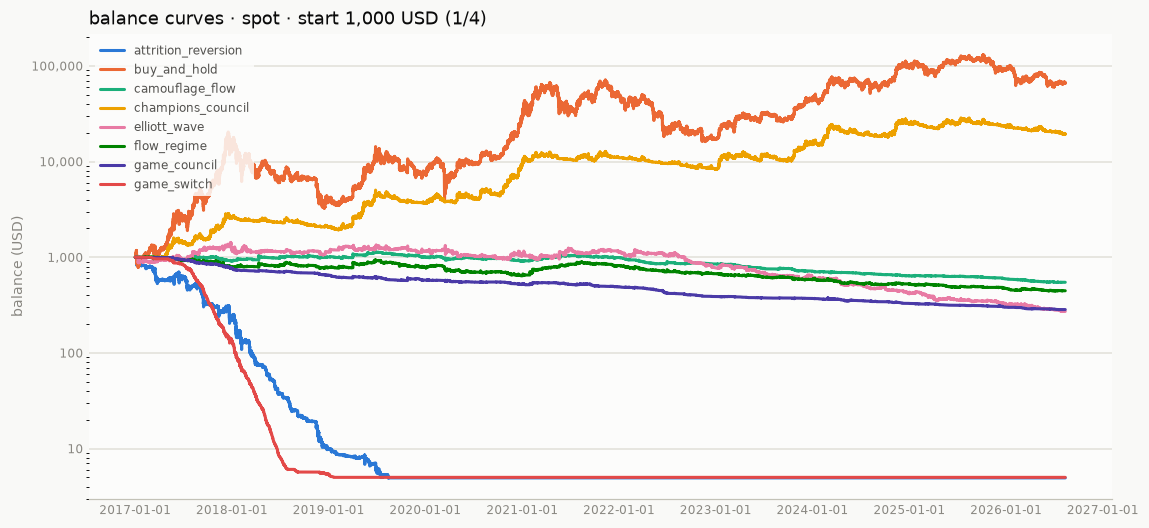
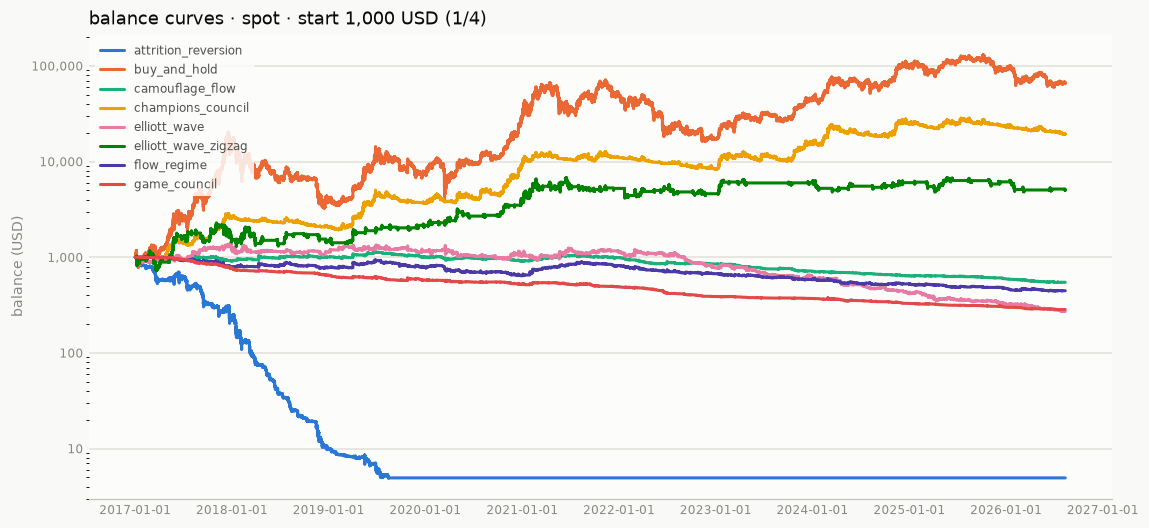
Reconcile registry after merge: regenerate comparison table and STRATEGIES.md for elliott_wave_zigzag (concurrent R-156 session)
Bootstrap intervals, ordering stats, README/comparison.md and the
STRATEGIES.md catalogue now cover all 27 registered strategies, including
elliott_wave_zigzag merged in from the concurrent session's own R-156.
Full pytest (536 passed) and the evidence-interval CI check both green.

diff --git a/reports/comparison.md b/reports/comparison.md
@@ -17,31 +17,32 @@ Every comparison against `buy_and_hold` carries a 95% paired block-bootstrap int
 | 7 | [buy_and_hold](../src/tradebot/strategies/buy_and_hold.py) | 🟢 **$66.0K** | 💀 $18.05 | 1 | 📈 $65.0K | 84% ⚠ | benchmark | benchmark |
 | 8 | [champions_council](../src/tradebot/strategies/champions_council.py) | 🟢 $19.3K | 🟢 **$36.8K** | 261 | 📈 $35.8K | 37% | ≈ -1.20 [-4.06, +1.81] | ▲ -49.5pp [-54.7, -19.0] |
 | 9 | [hedge_experts](../src/tradebot/strategies/hedge_experts.py) | 🟢 **$13.3K** | 🔴 $258 | 2,044 | 📈 $12.3K | 59% ⚠ | ≈ -1.57 [-4.01, +0.96] | ▲ -24.1pp [-39.1, -3.0] |
-| 10 | [replicator_book](../src/tradebot/strategies/replicator_book.py) | 🟢 **$2,330** | 🔴 $10.58 | 713 | 📈 $1,330 | 38% | ≈ -3.31 [-6.86, +0.28] | ▲ -47.1pp [-57.9, -20.7] |
-| 11 | [universal_kelly](../src/tradebot/strategies/universal_kelly.py) | 🟢 **$1,276** | 🟢 $1,227 | 9 | 📈 $276 | 7% | ≈ -3.91 [-8.39, +0.44] | ▲ -76.6pp [-89.1, -52.9] |
-| 12 | [harsanyi_crowd](../src/tradebot/strategies/harsanyi_crowd.py) | 🔴 **$888** | 🔴 $429 | 91 | 📉 -$112 | 11% | ≈ -4.28 [-8.88, +0.23] | ▲ -71.9pp [-85.6, -46.0] |
-| 13 | [overshoot_fade](../src/tradebot/strategies/overshoot_fade.py) | 🔴 **$662** | 🔴 $33.52 | 189 | 📉 -$338 | 37% | ▼ -4.57 [-9.13, -0.07] | ▲ -46.6pp [-68.5, -19.6] |
-| 14 | [camouflage_flow](../src/tradebot/strategies/camouflage_flow.py) | 🔴 **$548** | 🔴 $0.99 | 802 | 📉 -$452 | 53% ⚠ | ▼ -4.76 [-9.23, -0.29] | ▲ -31.4pp [-57.7, -2.5] |
-| 15 | [stealth_trend](../src/tradebot/strategies/stealth_trend.py) | 🔴 **$465** | 🔴 $0.38 | 1,605 | 📉 -$535 | 55% ⚠ | ▼ -4.92 [-9.26, -0.76] | ≈ -29.0pp [-43.9, +12.1] |
-| 16 | [flow_regime](../src/tradebot/strategies/flow_regime.py) | 🔴 **$447** | 🔴 $0.80 | 1,184 | 📉 -$553 | 56% ⚠ | ▼ -4.96 [-9.43, -0.54] | ≈ -27.3pp [-47.2, +6.3] |
-| 17 | [game_council](../src/tradebot/strategies/game_council.py) | 🔴 **$284** | 🔴 $2.00 | 2,541 | 📉 -$716 | 72% ⚠ | ▼ -5.42 [-9.97, -0.95] | ≈ -11.5pp [-25.9, +12.4] |
-| 18 | [elliott_wave](../src/tradebot/strategies/elliott_wave.py) | 🔴 **$272** | 💀 $81.67 | 1,261 | 📉 -$728 | 81% ⚠ | ▼ -5.46 [-9.80, -1.00] | ≈ -2.9pp [-33.6, +22.3] |
-| 19 | [minority_oracle](../src/tradebot/strategies/minority_oracle.py) | 🔴 **$53.36** | 🔴 $3.83 | 9,039 | 📉 -$947 | 95% ⚠ | ▼ -7.09 [-11.60, -2.52] | ≈ +11.5pp [-3.8, +35.9] |
-| 20 | [game_switch](../src/tradebot/strategies/game_switch.py) | 🔴 **$5.00** | 🔴 $1.00 | 6,672 | 📉 -$995 | 99% ⚠ | ▼ -9.45 [-15.38, -4.06] | ▼ +16.3pp [+1.0, +39.3] |
-| 21 | [regret_grid](../src/tradebot/strategies/regret_grid.py) | 🔴 **$5.00** | 🔴 $1.00 | 3,461 | 📉 -$995 | 100% ⚠ | ▼ -9.46 [-16.20, -3.49] | ▼ +16.3pp [+0.9, +39.9] |
-| 22 | [tft_trend](../src/tradebot/strategies/tft_trend.py) | 🔴 **$4.99** | 🔴 $1.00 | 2,538 | 📉 -$995 | 100% ⚠ | ▼ -9.46 [-14.88, -4.58] | ▼ +16.3pp [+3.0, +39.9] |
-| 23 | [macd_cross](../src/tradebot/strategies/macd_cross.py) | 🔴 **$4.99** | 🔴 $1.00 | 4,301 | 📉 -$995 | 100% ⚠ | ▼ -9.47 [-16.93, -3.21] | ≈ +16.4pp [-1.4, +40.0] |
-| 24 | [macd_rsi](../src/tradebot/strategies/macd_rsi.py) | 🔴 **$4.96** | 🔴 $0.94 | 2,454 | 📉 -$995 | 100% ⚠ | ▼ -9.46 [-15.00, -4.40] | ▼ +16.3pp [+2.6, +39.6] |
-| 25 | [attrition_reversion](../src/tradebot/strategies/attrition_reversion.py) | 🔴 **$4.94** | 🔴 $0.99 | 2,930 | 📉 -$995 | 100% ⚠ | ▼ -9.47 [-14.55, -4.69] | ▼ +16.3pp [+3.1, +39.1] |
-| 26 | [rsi_reversion](../src/tradebot/strategies/rsi_reversion.py) | 🔴 **$4.85** | 🔴 $0.77 | 4,464 | 📉 -$995 | 100% ⚠ | ▼ -9.49 [-13.24, -5.78] | ▼ +16.7pp [+3.5, +39.8] |
+| 10 | [elliott_wave_zigzag](../src/tradebot/strategies/elliott_wave_zigzag.py) | 🟢 **$5,027** | 💀 $12.75 | 162 | 📈 $4,027 | 44% | ≈ -2.54 [-6.51, +1.49] | ≈ -43.8pp [-50.7, +2.9] |
+| 11 | [replicator_book](../src/tradebot/strategies/replicator_book.py) | 🟢 **$2,330** | 🔴 $10.58 | 713 | 📈 $1,330 | 38% | ≈ -3.31 [-6.86, +0.28] | ▲ -47.1pp [-57.9, -20.7] |
+| 12 | [universal_kelly](../src/tradebot/strategies/universal_kelly.py) | 🟢 **$1,276** | 🟢 $1,227 | 9 | 📈 $276 | 7% | ≈ -3.91 [-8.39, +0.44] | ▲ -76.6pp [-89.1, -52.9] |
+| 13 | [harsanyi_crowd](../src/tradebot/strategies/harsanyi_crowd.py) | 🔴 **$888** | 🔴 $429 | 91 | 📉 -$112 | 11% | ≈ -4.28 [-8.88, +0.23] | ▲ -71.9pp [-85.6, -46.0] |
+| 14 | [overshoot_fade](../src/tradebot/strategies/overshoot_fade.py) | 🔴 **$662** | 🔴 $33.52 | 189 | 📉 -$338 | 37% | ▼ -4.57 [-9.13, -0.07] | ▲ -46.6pp [-68.5, -19.6] |
+| 15 | [camouflage_flow](../src/tradebot/strategies/camouflage_flow.py) | 🔴 **$548** | 🔴 $0.99 | 802 | 📉 -$452 | 53% ⚠ | ▼ -4.76 [-9.23, -0.29] | ▲ -31.4pp [-57.7, -2.5] |
+| 16 | [stealth_trend](../src/tradebot/strategies/stealth_trend.py) | 🔴 **$465** | 🔴 $0.38 | 1,605 | 📉 -$535 | 55% ⚠ | ▼ -4.92 [-9.26, -0.76] | ≈ -29.0pp [-43.9, +12.1] |
+| 17 | [flow_regime](../src/tradebot/strategies/flow_regime.py) | 🔴 **$447** | 🔴 $0.80 | 1,184 | 📉 -$553 | 56% ⚠ | ▼ -4.96 [-9.43, -0.54] | ≈ -27.3pp [-47.2, +6.3] |
+| 18 | [game_council](../src/tradebot/strategies/game_council.py) | 🔴 **$284** | 🔴 $2.00 | 2,541 | 📉 -$716 | 72% ⚠ | ▼ -5.42 [-9.97, -0.95] | ≈ -11.5pp [-25.9, +12.4] |
+| 19 | [elliott_wave](../src/tradebot/strategies/elliott_wave.py) | 🔴 **$272** | 💀 $81.67 | 1,261 | 📉 -$728 | 81% ⚠ | ▼ -5.46 [-9.80, -1.00] | ≈ -2.9pp [-33.6, +22.3] |
+| 20 | [minority_oracle](../src/tradebot/strategies/minority_oracle.py) | 🔴 **$53.36** | 🔴 $3.83 | 9,039 | 📉 -$947 | 95% ⚠ | ▼ -7.09 [-11.60, -2.52] | ≈ +11.5pp [-3.8, +35.9] |
+| 21 | [game_switch](../src/tradebot/strategies/game_switch.py) | 🔴 **$5.00** | 🔴 $1.00 | 6,672 | 📉 -$995 | 99% ⚠ | ▼ -9.45 [-15.38, -4.06] | ▼ +16.3pp [+1.0, +39.3] |
+| 22 | [regret_grid](../src/tradebot/strategies/regret_grid.py) | 🔴 **$5.00** | 🔴 $1.00 | 3,461 | 📉 -$995 | 100% ⚠ | ▼ -9.46 [-16.20, -3.49] | ▼ +16.3pp [+0.9, +39.9] |
+| 23 | [tft_trend](../src/tradebot/strategies/tft_trend.py) | 🔴 **$4.99** | 🔴 $1.00 | 2,538 | 📉 -$995 | 100% ⚠ | ▼ -9.46 [-14.88, -4.58] | ▼ +16.3pp [+3.0, +39.9] |
+| 24 | [macd_cross](../src/tradebot/strategies/macd_cross.py) | 🔴 **$4.99** | 🔴 $1.00 | 4,301 | 📉 -$995 | 100% ⚠ | ▼ -9.47 [-16.93, -3.21] | ≈ +16.4pp [-1.4, +40.0] |
+| 25 | [macd_rsi](../src/tradebot/strategies/macd_rsi.py) | 🔴 **$4.96** | 🔴 $0.94 | 2,454 | 📉 -$995 | 100% ⚠ | ▼ -9.46 [-15.00, -4.40] | ▼ +16.3pp [+2.6, +39.6] |
+| 26 | [attrition_reversion](../src/tradebot/strategies/attrition_reversion.py) | 🔴 **$4.94** | 🔴 $0.99 | 2,930 | 📉 -$995 | 100% ⚠ | ▼ -9.47 [-14.55, -4.69] | ▼ +16.3pp [+3.1, +39.1] |
+| 27 | [rsi_reversion](../src/tradebot/strategies/rsi_reversion.py) | 🔴 **$4.85** | 🔴 $0.77 | 4,464 | 📉 -$995 | 100% ⚠ | ▼ -9.49 [-13.24, -5.78] | ▼ +16.7pp [+3.5, +39.8] |
 
 _Balances from a $1,000 start · bold = the strategy's better market · 🟢 profit · 🔴 loss · 💀 liquidated · ⚠ drawdown over 50%. Trades, profit and max drawdown describe that market._
 
 _The last two columns are the only ones that answer **"is this difference real?"** Both are paired differences against `buy_and_hold` on spot over the full period (3,510 daily observations), each with a 95% stationary block-bootstrap interval — 30-day mean block, 2,000 resamples, the identical resample applied to both strategies so the market's own variance cancels instead of swamping the gap. ▲ / ▼ = the interval excludes zero and the strategy is better / worse; **≈ = it contains zero, so the difference from simply holding is not established**._
 
-_**Growth**, not Sharpe, because final balance is what this table ranks by — and the two disagree. **spot**, because leveraged buy-and-hold is a stress case rather than a benchmark: it is liquidated in early 2017, and an account that cannot draw down further is not something to draw down less than (R-22). On this run **0 of 25** strategies are distinguishably better than holding on growth; the drawdown column is where the project's findings actually live._
+_**Growth**, not Sharpe, because final balance is what this table ranks by — and the two disagree. **spot**, because leveraged buy-and-hold is a stress case rather than a benchmark: it is liquidated in early 2017, and an account that cannot draw down further is not something to draw down less than (R-22). On this run **0 of 26** strategies are distinguishably better than holding on growth; the drawdown column is where the project's findings actually live._
 
-_Adjacent steps down this ranking that survive the same test: **14 of 25** on spot · **5 of 25** on futures_5x. The order is a display convention, not a result — read the table as buckets._
+_Adjacent steps down this ranking that survive the same test: **16 of 26** on spot · **5 of 26** on futures_5x. The order is a display convention, not a result — read the table as buckets._
 
 _Regenerate with `python scripts/inference.py`; the numbers live in `reports/inference/bootstrap.csv`._
 
@@ -64,6 +65,7 @@ _Regenerate with `python scripts/inference.py`; the numbers live in `reports/inf
 | [elliott_wave](../src/tradebot/strategies/elliott_wave.py) | $81.67 | -$918 | -91.83% | 164 | 51.8 | $512 | -$2,966 | 97.5 | 0.13 | 1.0 | $565 | yes | ☠ +0.49 [-0.12, +0.93] | ☠ -1.7pp [-35.0, +100.0] | ☠ +1.67 [-7.61, +10.85] | 0.66 |
 | [overshoot_fade](../src/tradebot/strategies/overshoot_fade.py) | $33.52 | -$966 | -96.65% | 341 | 57.2 | $71.14 | -$115 | 97.0 | -1.16 | 0.3 | $309 |  | ☠ -0.92 [-1.75, -0.17] | ☠ -2.1pp [-14.5, +99.3] | ☠ +0.78 [-4.96, +11.00] | 0.53 |
 | [buy_and_hold](../src/tradebot/strategies/buy_and_hold.py) | $18.05 | -$982 | -98.20% | 1 | 0.0 | -$982 | -$982 | 99.0 | -0.19 | 0.3 | $4.50 | yes | benchmark | benchmark | benchmark | 0.00 |
+| [elliott_wave_zigzag](../src/tradebot/strategies/elliott_wave_zigzag.py) | $12.75 | -$987 | -98.73% | 5 | 40.0 | $405 | -$694 | 98.9 | -0.04 | 0.9 | $17.31 | yes | ☠ +0.07 [-0.56, +0.68] | ☠ -0.2pp [-37.2, +100.0] | ☠ -0.19 [-11.50, +10.42] | 0.45 |
 | [replicator_book](../src/tradebot/strategies/replicator_book.py) | $10.58 | -$989 | -98.94% | 1427 | 24.4 | $1,847 | -$681 | 99.8 | 0.33 | 99.6 | $2,215 |  | ☠ +0.54 [-0.24, +1.13] | ☠ +0.7pp [-4.9, +100.0] | ☠ -0.38 [-9.36, +11.50] | 0.43 |
 | [minority_oracle](../src/tradebot/strategies/minority_oracle.py) | $3.83 | -$996 | -99.62% | 7065 | 25.4 | $11.19 | -$10.12 | 99.6 | -8.29 | 0.9 | $1,180 |  | ☠ -4.70 [-6.42, -3.15] | ☠ +0.6pp [-4.9, +100.0] | ☠ -1.39 [-8.39, +9.13] | 0.33 |
 | [game_council](../src/tradebot/strategies/game_council.py) | $2.00 | -$998 | -99.80% | 2494 | 33.8 | $17.63 | -$55.75 | 99.8 | -1.66 | 2.5 | $297 |  | ☠ -1.84 [-2.93, -1.10] | ☠ +0.8pp [-1.4, +100.0] | ☠ -2.04 [-8.58, +8.12] | 0.27 |
@@ -91,6 +93,7 @@ _Regenerate with `python scripts/inference.py`; the numbers live in `reports/inf
 | [kelly_regime_ev](../src/tradebot/strategies/kelly_regime_ev.py) | $40.9K | $39.9K | +3986.30% | 81 | 25.9 | $15.1K | -$3,482 | 44.4 | 1.31 | 57.4 | $2,403 |  | ≈ +0.37 [-0.07, +0.81] | ▲ -40.0pp [-55.5, -16.3] | ≈ -0.45 [-3.28, +2.58] | 0.39 |
 | [champions_council](../src/tradebot/strategies/champions_council.py) | $19.3K | $18.3K | +1832.14% | 131 | 14.6 | $8,520 | -$1,150 | 34.6 | 1.23 | 87.9 | $4,050 |  | ≈ +0.25 [-0.18, +0.68] | ▲ -49.5pp [-54.7, -19.0] | ≈ -1.20 [-4.06, +1.81] | 0.23 |
 | [hedge_experts](../src/tradebot/strategies/hedge_experts.py) | $13.3K | $12.3K | +1227.66% | 2044 | 7.5 | $11.0K | -$1,469 | 59.3 | 0.87 | 88.0 | $16.7K |  | ≈ -0.07 [-0.42, +0.29] | ▲ -24.1pp [-39.1, -3.0] | ≈ -1.57 [-4.01, +0.96] | 0.11 |
+| [elliott_wave_zigzag](../src/tradebot/strategies/elliott_wave_zigzag.py) | $5,027 | $4,027 | +402.68% | 162 | 54.7 | $1,469 | -$1,026 | 43.6 | 0.63 | 25.7 | $1,089 |  | ≈ -0.31 [-0.99, +0.36] | ≈ -43.8pp [-50.7, +2.9] | ≈ -2.54 [-6.51, +1.49] | 0.11 |
 | [replicator_book](../src/tradebot/strategies/replicator_book.py) | $2,330 | $1,330 | +132.98% | 713 | 26.2 | $451 | -$90.85 | 38.4 | 0.52 | 53.0 | $1,630 |  | ▼ -0.44 [-0.86, -0.06] | ▲ -47.1pp [-57.9, -20.7] | ≈ -3.31 [-6.86, +0.28] | 0.03 |
 | [universal_kelly](../src/tradebot/strategies/universal_kelly.py) | $1,276 | $276 | +27.60% | 9 | 88.9 | $131 | -$6.99 | 7.4 | 0.62 | 22.7 | $1.33 |  | ≈ -0.28 [-0.88, +0.32] | ▲ -76.6pp [-89.1, -52.9] | ≈ -3.91 [-8.39, +0.44] | 0.04 |
 | [harsanyi_crowd](../src/tradebot/strategies/harsanyi_crowd.py) | $888 | -$112 | -11.19% | 91 | 28.6 | $7.93 | -$13.89 | 11.4 | -0.82 | 0.1 | $90.02 |  | ▼ -2.03 [-2.96, -1.02] | ▲ -71.9pp [-85.6, -46.0] | ≈ -4.28 [-8.88, +0.23] | 0.03 |

diff --git a/README.md b/README.md
@@ -35,14 +35,14 @@ anything not listed here has been folded into one of these:
 | document | its one job |
 |---|---|
 | **[docs/ROUTINE.md](docs/ROUTINE.md)** | **The process.** The single procedure for researching and adding a strategy — from idea selection through holdout evaluation to the ledger record, including the mechanics of registering one. |
-| **[docs/LEDGER.md](docs/LEDGER.md)** | **The memory.** Everything already tried — 26 registered strategies, and a research log of 156 rounds, newest first — the four binding constraints, the ruled-out list, and the ranked backlog. Read before a session, appended after it. |
+| **[docs/LEDGER.md](docs/LEDGER.md)** | **The memory.** Everything already tried — 27 registered strategies, and a research log of 157 rounds, newest first — the four binding constraints, the ruled-out list, and the ranked backlog. Read before a session, appended after it. |
 | **[docs/VALIDATION.md](docs/VALIDATION.md)** | **The evidence.** The single comparison protocol and benchmark, and every robustness result: walk-forward, bootstrap intervals, deflated Sharpe, Monte Carlo stress windows, fees, funding, and the ETH replication test. |
 | **[docs/STRATEGIES.md](docs/STRATEGIES.md)** | **The strategies.** What each registered strategy is, how it works, and the principles it rests on, with citations. |
 | **[docs/RESEARCH.md](docs/RESEARCH.md)** | **The literature.** The survey behind the strategies, and the methodology findings that changed how this repo tests. |
 | **[docs/LIVE.md](docs/LIVE.md)** | **Deployment.** Running a paper-tested strategy on Bitstamp / Binance / a custom venue, and the honest list of what live will not match. |
 | [reports/comparison.md](reports/comparison.md) | Full metrics (win rate, drawdown, Sharpe, fees, ...) behind the table below. Regenerated by `tradebot run`. |
 
-The one-line summary of all twenty-six results: **every strategy that
+The one-line summary of all twenty-seven results: **every strategy that
 makes money decides *how much* to hold; every strategy that tries to
 predict *what happens next* loses.** On 5-minute bars, after fees, sizing
 wins and forecasting loses.
@@ -193,31 +193,32 @@ _Period: 2017-01-01 to 2026-08-12 (1,010,889 x 5m bars) · data: real, spot (per
 | 7 | [buy_and_hold](src/tradebot/strategies/buy_and_hold.py) | 🟢 **$66.0K** | 💀 $18.05 | 1 | 📈 $65.0K | 84% ⚠ | benchmark | benchmark |
 | 8 | [champions_council](src/tradebot/strategies/champions_council.py) | 🟢 $19.3K | 🟢 **$36.8K** | 261 | 📈 $35.8K | 37% | ≈ -1.20 [-4.06, +1.81] | ▲ -49.5pp [-54.7, -19.0] |
 | 9 | [hedge_experts](src/tradebot/strategies/hedge_experts.py) | 🟢 **$13.3K** | 🔴 $258 | 2,044 | 📈 $12.3K | 59% ⚠ | ≈ -1.57 [-4.01, +0.96] | ▲ -24.1pp [-39.1, -3.0] |
-| 10 | [replicator_book](src/tradebot/strategies/replicator_book.py) | 🟢 **$2,330** | 🔴 $10.58 | 713 | 📈 $1,330 | 38% | ≈ -3.31 [-6.86, +0.28] | ▲ -47.1pp [-57.9, -20.7] |
-| 11 | [universal_kelly](src/tradebot/strategies/universal_kelly.py) | 🟢 **$1,276** | 🟢 $1,227 | 9 | 📈 $276 | 7% | ≈ -3.91 [-8.39, +0.44] | ▲ -76.6pp [-89.1, -52.9] |
-| 12 | [harsanyi_crowd](src/tradebot/strategies/harsanyi_crowd.py) | 🔴 **$888** | 🔴 $429 | 91 | 📉 -$112 | 11% | ≈ -4.28 [-8.88, +0.23] | ▲ -71.9pp [-85.6, -46.0] |
-| 13 | [overshoot_fade](src/tradebot/strategies/overshoot_fade.py) | 🔴 **$662** | 🔴 $33.52 | 189 | 📉 -$338 | 37% | ▼ -4.57 [-9.13, -0.07] | ▲ -46.6pp [-68.5, -19.6] |
-| 14 | [camouflage_flow](src/tradebot/strategies/camouflage_flow.py) | 🔴 **$548** | 🔴 $0.99 | 802 | 📉 -$452 | 53% ⚠ | ▼ -4.76 [-9.23, -0.29] | ▲ -31.4pp [-57.7, -2.5] |
-| 15 | [stealth_trend](src/tradebot/strategies/stealth_trend.py) | 🔴 **$465** | 🔴 $0.38 | 1,605 | 📉 -$535 | 55% ⚠ | ▼ -4.92 [-9.26, -0.76] | ≈ -29.0pp [-43.9, +12.1] |
-| 16 | [flow_regime](src/tradebot/strategies/flow_regime.py) | 🔴 **$447** | 🔴 $0.80 | 1,184 | 📉 -$553 | 56% ⚠ | ▼ -4.96 [-9.43, -0.54] | ≈ -27.3pp [-47.2, +6.3] |
-| 17 | [game_council](src/tradebot/strategies/game_council.py) | 🔴 **$284** | 🔴 $2.00 | 2,541 | 📉 -$716 | 72% ⚠ | ▼ -5.42 [-9.97, -0.95] | ≈ -11.5pp [-25.9, +12.4] |
-| 18 | [elliott_wave](src/tradebot/strategies/elliott_wave.py) | 🔴 **$272** | 💀 $81.67 | 1,261 | 📉 -$728 | 81% ⚠ | ▼ -5.46 [-9.80, -1.00] | ≈ -2.9pp [-33.6, +22.3] |
-| 19 | [minority_oracle](src/tradebot/strategies/minority_oracle.py) | 🔴 **$53.36** | 🔴 $3.83 | 9,039 | 📉 -$947 | 95% ⚠ | ▼ -7.09 [-11.60, -2.52] | ≈ +11.5pp [-3.8, +35.9] |
-| 20 | [game_switch](src/tradebot/strategies/game_switch.py) | 🔴 **$5.00** | 🔴 $1.00 | 6,672 | 📉 -$995 | 99% ⚠ | ▼ -9.45 [-15.38, -4.06] | ▼ +16.3pp [+1.0, +39.3] |
-| 21 | [regret_grid](src/tradebot/strategies/regret_grid.py) | 🔴 **$5.00** | 🔴 $1.00 | 3,461 | 📉 -$995 | 100% ⚠ | ▼ -9.46 [-16.20, -3.49] | ▼ +16.3pp [+0.9, +39.9] |
-| 22 | [tft_trend](src/tradebot/strategies/tft_trend.py) | 🔴 **$4.99** | 🔴 $1.00 | 2,538 | 📉 -$995 | 100% ⚠ | ▼ -9.46 [-14.88, -4.58] | ▼ +16.3pp [+3.0, +39.9] |
-| 23 | [macd_cross](src/tradebot/strategies/macd_cross.py) | 🔴 **$4.99** | 🔴 $1.00 | 4,301 | 📉 -$995 | 100% ⚠ | ▼ -9.47 [-16.93, -3.21] | ≈ +16.4pp [-1.4, +40.0] |
-| 24 | [macd_rsi](src/tradebot/strategies/macd_rsi.py) | 🔴 **$4.96** | 🔴 $0.94 | 2,454 | 📉 -$995 | 100% ⚠ | ▼ -9.46 [-15.00, -4.40] | ▼ +16.3pp [+2.6, +39.6] |
-| 25 | [attrition_reversion](src/tradebot/strategies/attrition_reversion.py) | 🔴 **$4.94** | 🔴 $0.99 | 2,930 | 📉 -$995 | 100% ⚠ | ▼ -9.47 [-14.55, -4.69] | ▼ +16.3pp [+3.1, +39.1] |
-| 26 | [rsi_reversion](src/tradebot/strategies/rsi_reversion.py) | 🔴 **$4.85** | 🔴 $0.77 | 4,464 | 📉 -$995 | 100% ⚠ | ▼ -9.49 [-13.24, -5.78] | ▼ +16.7pp [+3.5, +39.8] |
+| 10 | [elliott_wave_zigzag](src/tradebot/strategies/elliott_wave_zigzag.py) | 🟢 **$5,027** | 💀 $12.75 | 162 | 📈 $4,027 | 44% | ≈ -2.54 [-6.51, +1.49] | ≈ -43.8pp [-50.7, +2.9] |
+| 11 | [replicator_book](src/tradebot/strategies/replicator_book.py) | 🟢 **$2,330** | 🔴 $10.58 | 713 | 📈 $1,330 | 38% | ≈ -3.31 [-6.86, +0.28] | ▲ -47.1pp [-57.9, -20.7] |
+| 12 | [universal_kelly](src/tradebot/strategies/universal_kelly.py) | 🟢 **$1,276** | 🟢 $1,227 | 9 | 📈 $276 | 7% | ≈ -3.91 [-8.39, +0.44] | ▲ -76.6pp [-89.1, -52.9] |
+| 13 | [harsanyi_crowd](src/tradebot/strategies/harsanyi_crowd.py) | 🔴 **$888** | 🔴 $429 | 91 | 📉 -$112 | 11% | ≈ -4.28 [-8.88, +0.23] | ▲ -71.9pp [-85.6, -46.0] |
+| 14 | [overshoot_fade](src/tradebot/strategies/overshoot_fade.py) | 🔴 **$662** | 🔴 $33.52 | 189 | 📉 -$338 | 37% | ▼ -4.57 [-9.13, -0.07] | ▲ -46.6pp [-68.5, -19.6] |
+| 15 | [camouflage_flow](src/tradebot/strategies/camouflage_flow.py) | 🔴 **$548** | 🔴 $0.99 | 802 | 📉 -$452 | 53% ⚠ | ▼ -4.76 [-9.23, -0.29] | ▲ -31.4pp [-57.7, -2.5] |
+| 16 | [stealth_trend](src/tradebot/strategies/stealth_trend.py) | 🔴 **$465** | 🔴 $0.38 | 1,605 | 📉 -$535 | 55% ⚠ | ▼ -4.92 [-9.26, -0.76] | ≈ -29.0pp [-43.9, +12.1] |
+| 17 | [flow_regime](src/tradebot/strategies/flow_regime.py) | 🔴 **$447** | 🔴 $0.80 | 1,184 | 📉 -$553 | 56% ⚠ | ▼ -4.96 [-9.43, -0.54] | ≈ -27.3pp [-47.2, +6.3] |
+| 18 | [game_council](src/tradebot/strategies/game_council.py) | 🔴 **$284** | 🔴 $2.00 | 2,541 | 📉 -$716 | 72% ⚠ | ▼ -5.42 [-9.97, -0.95] | ≈ -11.5pp [-25.9, +12.4] |
+| 19 | [elliott_wave](src/tradebot/strategies/elliott_wave.py) | 🔴 **$272** | 💀 $81.67 | 1,261 | 📉 -$728 | 81% ⚠ | ▼ -5.46 [-9.80, -1.00] | ≈ -2.9pp [-33.6, +22.3] |
+| 20 | [minority_oracle](src/tradebot/strategies/minority_oracle.py) | 🔴 **$53.36** | 🔴 $3.83 | 9,039 | 📉 -$947 | 95% ⚠ | ▼ -7.09 [-11.60, -2.52] | ≈ +11.5pp [-3.8, +35.9] |
+| 21 | [game_switch](src/tradebot/strategies/game_switch.py) | 🔴 **$5.00** | 🔴 $1.00 | 6,672 | 📉 -$995 | 99% ⚠ | ▼ -9.45 [-15.38, -4.06] | ▼ +16.3pp [+1.0, +39.3] |
+| 22 | [regret_grid](src/tradebot/strategies/regret_grid.py) | 🔴 **$5.00** | 🔴 $1.00 | 3,461 | 📉 -$995 | 100% ⚠ | ▼ -9.46 [-16.20, -3.49] | ▼ +16.3pp [+0.9, +39.9] |
+| 23 | [tft_trend](src/tradebot/strategies/tft_trend.py) | 🔴 **$4.99** | 🔴 $1.00 | 2,538 | 📉 -$995 | 100% ⚠ | ▼ -9.46 [-14.88, -4.58] | ▼ +16.3pp [+3.0, +39.9] |
+| 24 | [macd_cross](src/tradebot/strategies/macd_cross.py) | 🔴 **$4.99** | 🔴 $1.00 | 4,301 | 📉 -$995 | 100% ⚠ | ▼ -9.47 [-16.93, -3.21] | ≈ +16.4pp [-1.4, +40.0] |
+| 25 | [macd_rsi](src/tradebot/strategies/macd_rsi.py) | 🔴 **$4.96** | 🔴 $0.94 | 2,454 | 📉 -$995 | 100% ⚠ | ▼ -9.46 [-15.00, -4.40] | ▼ +16.3pp [+2.6, +39.6] |
+| 26 | [attrition_reversion](src/tradebot/strategies/attrition_reversion.py) | 🔴 **$4.94** | 🔴 $0.99 | 2,930 | 📉 -$995 | 100% ⚠ | ▼ -9.47 [-14.55, -4.69] | ▼ +16.3pp [+3.1, +39.1] |
+| 27 | [rsi_reversion](src/tradebot/strategies/rsi_reversion.py) | 🔴 **$4.85** | 🔴 $0.77 | 4,464 | 📉 -$995 | 100% ⚠ | ▼ -9.49 [-13.24, -5.78] | ▼ +16.7pp [+3.5, +39.8] |
 
 _Balances from a $1,000 start · bold = the strategy's better market · 🟢 profit · 🔴 loss · 💀 liquidated · ⚠ drawdown over 50%. Trades, profit and max drawdown describe that market._
 
 _The last two columns are the only ones that answer **"is this difference real?"** Both are paired differences against `buy_and_hold` on spot over the full period (3,510 daily observations), each with a 95% stationary block-bootstrap interval — 30-day mean block, 2,000 resamples, the identical resample applied to both strategies so the market's own variance cancels instead of swamping the gap. ▲ / ▼ = the interval excludes zero and the strategy is better / worse; **≈ = it contains zero, so the difference from simply holding is not established**._
 
-_**Growth**, not Sharpe, because final balance is what this table ranks by — and the two disagree. **spot**, because leveraged buy-and-hold is a stress case rather than a benchmark: it is liquidated in early 2017, and an account that cannot draw down further is not something to draw down less than (R-22). On this run **0 of 25** strategies are distinguishably better than holding on growth; the drawdown column is where the project's findings actually live._
+_**Growth**, not Sharpe, because final balance is what this table ranks by — and the two disagree. **spot**, because leveraged buy-and-hold is a stress case rather than a benchmark: it is liquidated in early 2017, and an account that cannot draw down further is not something to draw down less than (R-22). On this run **0 of 26** strategies are distinguishably better than holding on growth; the drawdown column is where the project's findings actually live._
 
-_Adjacent steps down this ranking that survive the same test: **14 of 25** on spot · **5 of 25** on futures_5x. The order is a display convention, not a result — read the table as buckets._
+_Adjacent steps down this ranking that survive the same test: **16 of 26** on spot · **5 of 26** on futures_5x. The order is a display convention, not a result — read the table as buckets._
 
 _Regenerate with `python scripts/inference.py`; the numbers live in `reports/inference/bootstrap.csv`._
 <!-- comparison:end -->
@@ -253,8 +254,8 @@ default-reject promotion bar — beat buy-and-hold out-of-sample after
 funding and at the real fee tier, by more than the ±0.2 Sharpe noise
 floor, and survive a falsification test chosen in advance.
 
-Everything already tried — 26 registered strategies, a research log of
-156 rounds, the ruled-out list and the ranked backlog — is in
+Everything already tried — 27 registered strategies, a research log of
+157 rounds, the ruled-out list and the ranked backlog — is in
 **[docs/LEDGER.md](docs/LEDGER.md)**, which is read before a session
 starts and appended to when it ends. A documented negative result is a
 successful session; most of the value in this repo is the record of what

diff --git a/docs/STRATEGIES.md b/docs/STRATEGIES.md
@@ -1,6 +1,6 @@
 # The strategies, best to worst
 
-Every registered strategy — all twenty-six — ordered as in the README
+Every registered strategy — all twenty-seven — ordered as in the README
 comparison table (final balance on the best market over 2017–2026). Each
 section says **what it is**, **how it works**, and **what principles it
 rests on**. Balances below are from a **$1,000** start — results scale
@@ -16,7 +16,7 @@ statistically distinguishable
 The five `kelly_regime_*` variant entries (v2/v3/v4 and the two `ev`
 strategies) are variants of the leader and are described together in the
 [appendix](#appendix-the-variants); the numbered sections below cover the
-twenty-one distinct ideas.
+twenty-two distinct ideas.
 
 | # | strategy | spot | futures 5x | verdict |
 |---|---|---|---|---|
@@ -29,23 +29,24 @@ twenty-one distinct ideas.
 | 2 | [buy_and_hold](#2-buy_and_hold) | **$66.0K** | $18 (liquidated) | benchmark; unbeatable on spot, fatal on leverage |
 | 3 | [champions_council](#3-champions_council) | $19.3K | **$36.8K** | lowest drawdown of the high-return strategies |
 | 4 | [hedge_experts](#4-hedge_experts) | **$13.3K** | $258 | profitable on spot, over-trades on leverage |
-| 5 | [replicator_book](#5-replicator_book) | **$2,330** | $10.58 | modest but real edge on spot |
-| 6 | [universal_kelly](#6-universal_kelly) | **$1,276** | $1,227 | tiny gains, remarkable 7% max drawdown |
-| 7 | [harsanyi_crowd](#7-harsanyi_crowd) | $888 | $429 | near break-even, very low exposure |
-| 8 | [overshoot_fade](#8-overshoot_fade) | $662 | $33 | good win rate, bad tails |
-| 9 | [camouflage_flow](#9-camouflage_flow) | $548 | $0.99 | signal exists, fees eat it |
-| 10 | [stealth_trend](#10-stealth_trend) | $465 | $0.38 | as above |
-| 11 | [flow_regime](#11-flow_regime) | $447 | $0.80 | combination did not rescue its members |
-| 12 | [game_council](#12-game_council) | $284 | $2.00 | can only allocate among losers |
-| 13 | [elliott_wave](#13-elliott_wave) | $272 | $81.67 (liquidated) | falsifiable Elliott Wave count, decisively negative |
-| 14 | [minority_oracle](#14-minority_oracle) | $53 | $3.83 | honest negative result |
-| 15 | [game_switch](#15-game_switch) | $5.00 | $1.00 | fee death |
-| 16 | [regret_grid](#16-regret_grid) | $5.00 | $1.00 | fee death |
-| 17 | [tft_trend](#17-tft_trend) | $4.99 | $1.00 | fee death |
-| 18 | [macd_cross](#18-macd_cross) | $4.99 | $1.00 | baseline; fee death |
-| 19 | [macd_rsi](#19-macd_rsi) | $4.96 | $0.94 | baseline; fee death |
-| 20 | [attrition_reversion](#20-attrition_reversion) | $4.94 | $0.99 | fee death |
-| 21 | [rsi_reversion](#21-rsi_reversion) | $4.85 | $0.77 | baseline; fee death |
+| 5 | [elliott_wave_zigzag](#5-elliott_wave_zigzag) | **$5,027** | $12.75 (liquidated) | a second, independent Elliott Wave implementation; not distinguishable from holding |
+| 6 | [replicator_book](#6-replicator_book) | **$2,330** | $10.58 | modest but real edge on spot |
+| 7 | [universal_kelly](#7-universal_kelly) | **$1,276** | $1,227 | tiny gains, remarkable 7% max drawdown |
+| 8 | [harsanyi_crowd](#8-harsanyi_crowd) | $888 | $429 | near break-even, very low exposure |
+| 9 | [overshoot_fade](#9-overshoot_fade) | $662 | $33 | good win rate, bad tails |
+| 10 | [camouflage_flow](#10-camouflage_flow) | $548 | $0.99 | signal exists, fees eat it |
+| 11 | [stealth_trend](#11-stealth_trend) | $465 | $0.38 | as above |
+| 12 | [flow_regime](#12-flow_regime) | $447 | $0.80 | combination did not rescue its members |
+| 13 | [game_council](#13-game_council) | $284 | $2.00 | can only allocate among losers |
+| 14 | [elliott_wave](#14-elliott_wave) | $272 | $81.67 (liquidated) | falsifiable Elliott Wave count, decisively negative |
+| 15 | [minority_oracle](#15-minority_oracle) | $53 | $3.83 | honest negative result |
+| 16 | [game_switch](#16-game_switch) | $5.00 | $1.00 | fee death |
+| 17 | [regret_grid](#17-regret_grid) | $5.00 | $1.00 | fee death |
+| 18 | [tft_trend](#18-tft_trend) | $4.99 | $1.00 | fee death |
+| 19 | [macd_cross](#19-macd_cross) | $4.99 | $1.00 | baseline; fee death |
+| 20 | [macd_rsi](#20-macd_rsi) | $4.96 | $0.94 | baseline; fee death |
+| 21 | [attrition_reversion](#21-attrition_reversion) | $4.94 | $0.99 | fee death |
+| 22 | [rsi_reversion](#22-rsi_reversion) | $4.85 | $0.77 | baseline; fee death |
 
 > **The pattern in one line:** every strategy that makes money decides
 > *how much to hold*; every strategy that tries to predict *what happens
@@ -163,7 +164,43 @@ edge.
 
 ---
 
-## 5. `replicator_book`
+## 5. `elliott_wave_zigzag`
+
+**What it is.** A second, independent implementation of backlog item B-10
+(deterministic Elliott Wave counting), built the same day by a concurrent
+session unaware of `elliott_wave` (#14 below) — a percentage-ZigZag,
+long-only impulse counter: **$5,027** on spot, liquidated on futures.
+
+**How it works.** A causal 5% percentage ZigZag over 5-minute closes
+produces alternating confirmed pivots. From each confirmed low as a
+candidate wave-0, Frost & Prechter's (1978) three hard impulse rules gate
+a 5-wave bull count: wave 2 may not fully retrace wave 1, and must land in
+the canonical [0.382, 0.786] Fibonacci band; wave 4 may not re-enter wave
+1's territory; wave 3 may not be the shortest of waves 1/3/5. Any
+violation invalidates the count and restarts the search; a clean wave-5
+completion also restarts it. Long-only: enter when wave 2 confirms valid
+(anticipating wave 3), exit at wave 5 completion or invalidation. One
+frozen configuration (5% ZigZag, Fibonacci band required) — no parameter
+search, per B-10's own "no discretion" brief. Bear-leg counting and
+diagonal-triangle exceptions are explicitly out of scope.
+
+**Principles.** Same literature rejection as `elliott_wave` (#14) —
+R-18's "not falsifiable as practiced" and Batchelor & Ramyar's refutation
+of the Fibonacci-ratio claim — converted into a run rather than argued
+from a citation.
+
+**Result.** The nominal $5,027 spot balance looks respectable next to
+`elliott_wave`'s $272, but the paired difference from `buy_and_hold` on
+spot contains zero (**≈ -2.54 [-6.51, +1.49]**) — not distinguishable from
+simply holding, in either direction. Two structurally different
+implementations of the same backlog item, dispatched in the same
+collision (`docs/LEDGER.md` R-157's own collision note), land on
+different point estimates but the same qualitative verdict: neither
+clears the bar. See `docs/LEDGER.md` for both rounds' full write-ups.
+
+---
+
+## 6. `replicator_book`
 
 **What it is.** A miniature market ecology that reallocates capital between
 trading styles by their realized fitness: **$2,330** on spot.
@@ -199,7 +236,7 @@ an absolute, leverage-independent fraction of equity).
 
 ---
 
-## 6. `universal_kelly`
+## 7. `universal_kelly`
 
 **What it is.** Cover's universal portfolio on one asset: **$1,276** on
 spot — small gains, but a **7.4% maximum drawdown**, by far the smoothest
@@ -220,7 +257,7 @@ lag: it concedes the early part of every new regime by construction.
 
 ---
 
-## 7. `harsanyi_crowd`
+## 8. `harsanyi_crowd`
 
 **What it is.** A Bayesian read on which regime the market is in, sized
 down when the trend looks crowded: **$888** on spot — a small loss, with
@@ -243,7 +280,7 @@ trade means buying the crowd's permanent impact right before it stops.
 
 ---
 
-## 8. `overshoot_fade`
+## 9. `overshoot_fade`
 
 **What it is.** The one mean-reversion trade microstructure theory
 actually licenses — fading a forced-liquidation cascade: **$662** on spot
@@ -268,7 +305,7 @@ worst-trade column.
 
 ---
 
-## 9. `camouflage_flow`
+## 10. `camouflage_flow`
 
 **What it is.** An attempt to detect and follow informed traders hiding
 inside ordinary volume: **$548** on spot — the signal is real but does not
@@ -292,7 +329,7 @@ implementation gives back more in fees than the drift is worth.
 
 ---
 
-## 10. `stealth_trend`
+## 11. `stealth_trend`
 
 **What it is.** Momentum that only counts bars where informed traders
 could plausibly have been hiding: **$465** on spot.
@@ -313,7 +350,7 @@ cumulative drift on unremarkable bars rather than one dramatic print.
 
 ---
 
-## 11. `flow_regime`
+## 12. `flow_regime`
 
 **What it is.** A combination that lets the two sides of the microstructure
 game arbitrate each other: **$447** on spot. It did not rescue its members.
@@ -332,7 +369,7 @@ them cannot manufacture an edge.
 
 ---
 
-## 12. `game_council`
+## 13. `game_council`
 
 **What it is.** Hedge allocation across the seven pure game-theoretic
 strategies: **$284** on spot.
@@ -350,7 +387,7 @@ algorithm, profitable members) sits at #3.
 
 ---
 
-## 13. `elliott_wave`
+## 14. `elliott_wave`
 
 **What it is.** A deterministic, causal ZigZag/Fibonacci Elliott Wave
 counter, traded directionally: **$272** on spot, liquidated on futures.
@@ -404,7 +441,7 @@ dampener on `kelly_regime_v4` also failed — see `docs/LEDGER.md` R-157.
 
 ---
 
-## 14. `minority_oracle`
+## 15. `minority_oracle`
 
 **What it is.** A grand-canonical minority game trained online on the
 binarized return series: **$53** on spot. A clean negative result.
@@ -428,7 +465,7 @@ over 12 bars — and loosening it produced trading that loses.
 
 ---
 
-## 15. `game_switch`
+## 16. `game_switch`
 
 **What it is.** Fictitious play against the market: **$5.00** on spot.
 
@@ -448,7 +485,7 @@ means are non-stationary and tiny relative to fees.
 
 ---
 
-## 16. `regret_grid`
+## 17. `regret_grid`
 
 **What it is.** Regret matching over a grid of positions: **$5.00** on
 spot.
@@ -469,7 +506,7 @@ noisy that it rebalances constantly, converting a sound guarantee into
 
 ---
 
-## 17. `tft_trend`
+## 18. `tft_trend`
 
 **What it is.** Axelrod's tit-for-tat played against the trend:
 **$4.99** on spot.
@@ -492,7 +529,7 @@ protect.
 
 ---
 
-## 18. `macd_cross`
+## 19. `macd_cross`
 
 **What it is.** The textbook MACD crossover: **$4.99** on spot from 4,301
 trades.
@@ -507,7 +544,7 @@ fees per $1,000 of capital, the fee bill alone is larger than the account.
 
 ---
 
-## 19. `macd_rsi`
+## 20. `macd_rsi`
 
 **What it is.** Trend filter plus pullback timing: **$4.96** on spot.
 
@@ -523,7 +560,7 @@ round trips thousands of times.
 
 ---
 
-## 20. `attrition_reversion`
+## 21. `attrition_reversion`
 
 **What it is.** Market-maker-style reversion with a war-of-attrition exit:
 **$4.94** on spot, despite a 58.6% win rate — one of the highest in the
@@ -548,7 +585,7 @@ short-gamma payoff paying fees on 2,930 trades.
 
 ---
 
-## 21. `rsi_reversion`
+## 22. `rsi_reversion`
 
 **What it is.** The classic oversold-bounce baseline: **$4.85** on spot
 from 4,464 trades.
